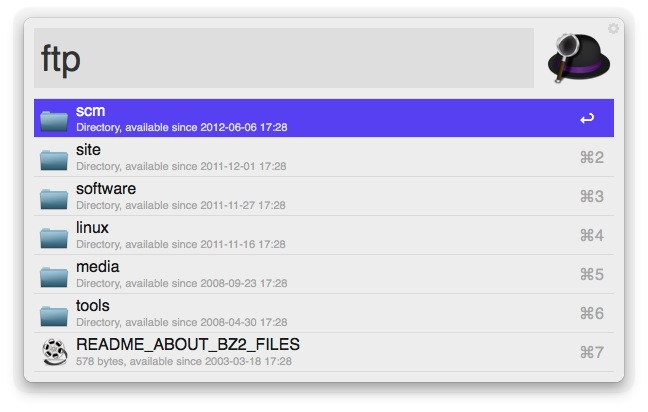
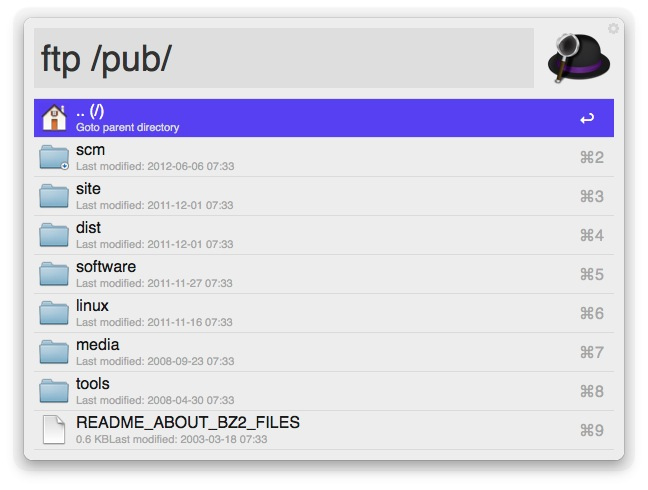
Introduce more feature and upgrade to v0.2

Changed region(s): [[0.0309, 0.0583, 0.9568, 0.9612], [0.8951, 0.5243, 0.9259, 0.5825], [0.9259, 0.0291, 0.9568, 0.0583]]

diff --git a/alftp.php b/alftp.php
@@ -1,5 +1,23 @@
 <?php
 
+function on_error($errno, $errstr, $errfile, $errline) {
+	$wf = new Workflows();
+	$desc = "($errno) $errstr";
+
+	// show error source if error not raised by user (trigger_error) 
+	if($errno != 1024) {
+		$desc = array_pop(explode('/', $errfile)) .":$errline - $desc";
+	}
+
+	$wf->result(-1, '', "Error found, check message below", $desc, $GLOBALS["icon_path"] . 'AlertStopIcon.icns', false);
+	echo $wf->toxml();
+
+	exit($errno);
+}
+
+set_error_handler('on_error');
+
+$cache_file = '';
 $icon_path = '/System/Library/CoreServices/CoreTypes.bundle/Contents/Resources/';
 
 function get_filesize($dsize) { 
@@ -17,50 +35,46 @@ function get_filesize($dsize) {
     } 
 }
 
-function run($wf) {
-	$data = load($wf);
-	$list = array();
-    $search = strtolower($GLOBALS["query"]);
-
-    foreach($data as $item) {
-    	if(!empty($search) && strpos(strtolower($item["name"]), $search) === false) {
-    		continue;
-    	}
-    	
-    	// timestamps should have the same width for sorting
-        $list["key_${item['timestamp']}"] = $item;
-    }
-
-    output($wf, $list);
+function run($dir) {
+	$list = load($dir);
+    output($dir, $list);
 }
 
-function load($wf) {
+function load($dir) {
+	$wf = new Workflows();
+	$enable_cache = $GLOBALS["enable_cache"];
 	$cache_file = $wf->cache() ."/cache-". preg_replace('/[^a-z0-9_-]/i', '', $GLOBALS["url"]);
-	// echo "cache file is $cache_file\n";
+	$GLOBALS["cache_file"] = $cache_file;
 
-	$cache_time = 5 * 60; // 5min
-	if(file_exists($cache_file) && time() - filemtime($cache_file) < $cache_time) {
-		return unserialize(file_get_contents($cache_file));
+	if($enable_cache) {
+		// echo "cache file is $cache_file\n";
+
+		$cache_time = 5 * 60; // 5min
+		if(file_exists($cache_file)) {
+			$entry = getCachedItem($dir);
+			if($entry) return $entry;
+		} else {
+			file_put_contents($cache_file, serialize(array()));
+		}
 	}
 
 	$options = array(
 	    CURLOPT_CONNECTTIMEOUT=>10,
-	    CURLOPT_USERPWD=>$GLOBALS["auth"],
+	    CURLOPT_USERPWD=>$GLOBALS["username"] .':'. $GLOBALS["password"],
 	    CURLOPT_FAILONERROR=>true,
-	    CURLOPT_CUSTOMREQUEST=>"LIST ". $GLOBALS['root']
+	    CURLOPT_CUSTOMREQUEST=>"LIST $dir"
 	);
 	$lines = explode("\n", $wf->request($GLOBALS["url"], $options));
+	// print_r($lines);
 
-	$data = array();
+	$list = array();
 	foreach($lines as $line) {
-		// echo ">>>$line<<<\n";
 		if(empty($line)) continue;
 
 	    preg_match_all('/(?P<flag>[dl-])[rwx-]+\s+(?P<contents>\d+).+?(?P<size>\d+)\s+(?P<month>\w+)\s+(?P<date>\d+)\s+(?P<time_or_year>[\d:]+)\s+(?P<name>\S+)/', $line, $out, PREG_SET_ORDER);
 
 	    // ignore invalid line 
 	    if(!count($out)) continue;
-	    print_r($out);
 
 	    $match = $out[0];
 	    $pattern = strpos($match["time_or_year"], ':') === false ? "Y" : "H:i";
@@ -77,50 +91,59 @@ function load($wf) {
 
 	    $match["timestamp"] = $timestamp;
 	    $match["lastmodifieddate"] = $date->format($GLOBALS["date_format"]);
-	    $data[] = $match;
+	    $list["$timestamp-". $match['name']] = $match;
 	};
 
-	file_put_contents($cache_file, serialize($data));
-	return $data;
+	krsort($list);
+	if($enable_cache) {
+		$data = unserialize(file_get_contents($cache_file));
+		$data[$dir] = array('ts'=>time(), 'list'=>$list);
+		file_put_contents($cache_file, serialize($data));
+	}
+	
+	return $list;
 }
 
-function output($wf, $list) {
-	if(count($list)) {
-	    krsort($list);
-	    foreach($list as $index=>$entry) {
-	        $wf->result($index, $entry["name"], $entry["name"], ($entry["flag"] == '-' ? get_filesize($entry["size"]) : 'Directory') .", available since ". $entry["lastmodifieddate"], $GLOBALS["icon_path"] . ($entry["flag"] == 'd' ? 'GenericFolderIcon.icns' : 'GenericDocumentIcon.icns'));
-	    }
-	} else {
-		if($GLOBALS["query"]) {
-		    $wf->result(-1, '', 'Item not found', 'Try to input less characters...', $GLOBALS["icon_path"] . 'AlertNoteIcon.icns', false);
+function getCachedItem($key) {
+	if(!$GLOBALS['enable_cache']) return null;
 
-		} else {
-		    $wf->result(-1, '', 'Cannot parse list of the root directory', 'Please check the settings.', $GLOBALS["icon_path"] . 'AlertCautionIcon.icns', false);
+	$data = unserialize(file_get_contents($GLOBALS["cache_file"]));
+	if(!array_key_exists($key, $data)) return null;
 
-		}
+	$entry = $data[$key];
+	$cache_time = 5 * 60; // 5mins
+	return time() - $entry['ts'] < $cache_time ? $entry['list']: null;
+}
+
+function output($dir, $list) {
+	$wf = new Workflows();
+	$parent = dirname($dir);
+
+	if($dir != '/') {
+		$icon_name = $parent == '/' ? 'HomeFolderIcon.icns' : 'BackwardArrowIcon.icns';
+	    $wf->result(0, $parent . ($parent == '/' ? '' : '/'), ".. ($parent)", "Goto parent directory", $GLOBALS["icon_path"] . $icon_name);
 	}
+
+    foreach($list as $index=>$entry) {
+    	$icon_name = 'GenericDocumentIcon.icns';
+		$path = (substr($dir, -1) == '/' ? $dir : "$dir/") . $entry["name"];
+
+    	// TODO: need to optimize performance in loop
+    	if($entry["flag"] == 'd') {
+    		$path = "$path/";
+    		$icon_name = getCachedItem($path) ? 'DropFolderIcon.icns' : 'GenericFolderIcon.icns';
+    	};
+
+        $wf->result($index + 1, $path, $entry["name"], ($entry["flag"] == '-' ? get_filesize($entry["size"] . ', ') : '') ."Last modified: ". $entry["lastmodifieddate"], $GLOBALS["icon_path"] . $icon_name, $entry["flag"] == '-');
+    }
 
 	echo $wf->toxml();
 }
 
-function on_error($errno, $errstr, $errfile, $errline) {
-	$wf = $GLOBALS["wf"];
-	$desc = "($errno) $errstr";
+$query = ltrim($query);
+if(!$query) $query = $root;
+if(!$query || $query[0] != '/')  $query = '/'. $query;
 
-	// show error source if error not raised by user (trigger_error) 
-	if($errno != 1024) {
-		$desc = array_pop(explode('/', $errfile)) .":$errline - $desc";
-	}
-
-	$wf->result(-1, '', "Error found, check message below", $desc, $GLOBALS["icon_path"] . 'AlertStopIcon.icns', false);
-	echo $wf->toxml();
-
-	exit($errno);
-}
-
-set_error_handler('on_error');
-$query = trim($query);
-$wf = new Workflows();
-run($wf);
+run($query);
 
 ?>

diff --git a/config.php b/config.php
@@ -1,0 +1,16 @@
+<?php
+
+// ftp config
+// protocol//host:port, or http://host:<default_port>
+$url = "ftp://ftp.kernel.org";
+// login info
+$username = "anonymous";
+$password = "";
+// /path/to/root/dir
+$root = "";
+
+// date format: http://www.php.net/manual/en/datetime.createfromformat.php
+$date_format = "Y-m-d H:i";
+// timezones: http://www.php.net/manual/en/timezones.php
+$server_timezone = "Europe/Berlin";
+$enable_cache = true;

diff --git a/test.php b/test.php
@@ -1,0 +1,5 @@
+<?php
+
+require_once "config.php";
+require_once "workflows.php";
+require_once "alftp.php";
